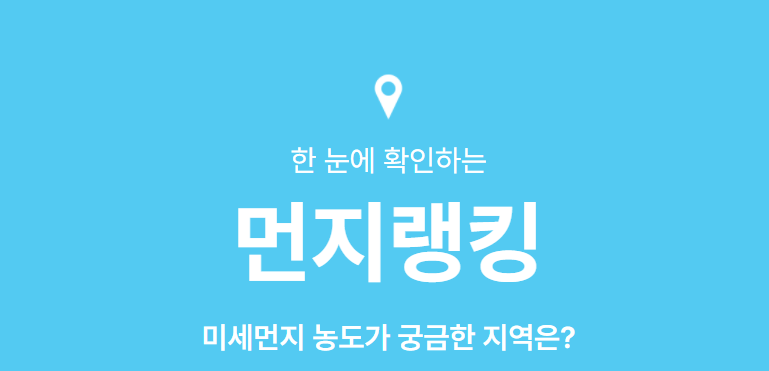
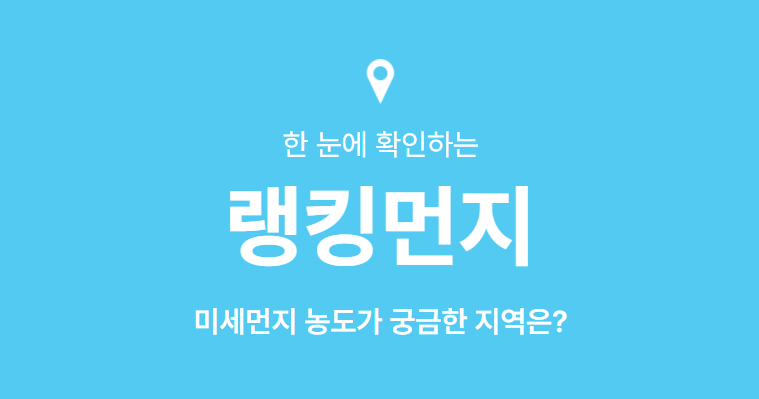
fix : 이름 변경

Changed region(s): [[0.2424, 0.1482, 0.7576, 0.9488]]

diff --git a/src/pages/Choice/index.jsx b/src/pages/Choice/index.jsx
@@ -21,7 +21,7 @@ const Choice = () => {
             <Styled.GlobalStyle />
             <Styled.Center><img src="img/location.png" alt='location' width={30} /></Styled.Center>
             <Styled.SubTitle>한 눈에 확인하는</Styled.SubTitle>
-            <Styled.Title>먼지랭킹</Styled.Title>
+            <Styled.Title>랭킹먼지</Styled.Title>
             <Styled.Text>미세먼지 농도가 궁금한 지역은?</Styled.Text>
             <Styled.Center>
                 <Styled.Select onChange={onChangeHandler} value={place}>

diff --git a/public/index.html b/public/index.html
@@ -28,7 +28,7 @@
       work correctly both with client-side routing and a non-root public URL.
       Learn how to configure a non-root public URL by running `npm run build`.
     -->
-    <title>먼지랭킹</title>
+    <title>랭킹먼지</title>
   </head>
   <body>
     <noscript>You need to enable JavaScript to run this app.</noscript>

diff --git a/README.md b/README.md
@@ -1,7 +1,7 @@
 <div align=center>
 
-# **먼지랭킹**
- [먼지랭킹](https://dust-rating.ga/)![image](https://user-images.githubusercontent.com/77133565/159783003-7c303bbc-6548-4e50-abde-7ffb88791bb6.png)
+# **랭킹먼지**
+ [랭킹먼지](https://dust-rating.ga/)![image](https://user-images.githubusercontent.com/77133565/159783003-7c303bbc-6548-4e50-abde-7ffb88791bb6.png)
 
  
 ![image](https://user-images.githubusercontent.com/77133565/159783161-5a270afd-f49f-4762-a0d0-bbb895daa2fb.png)
